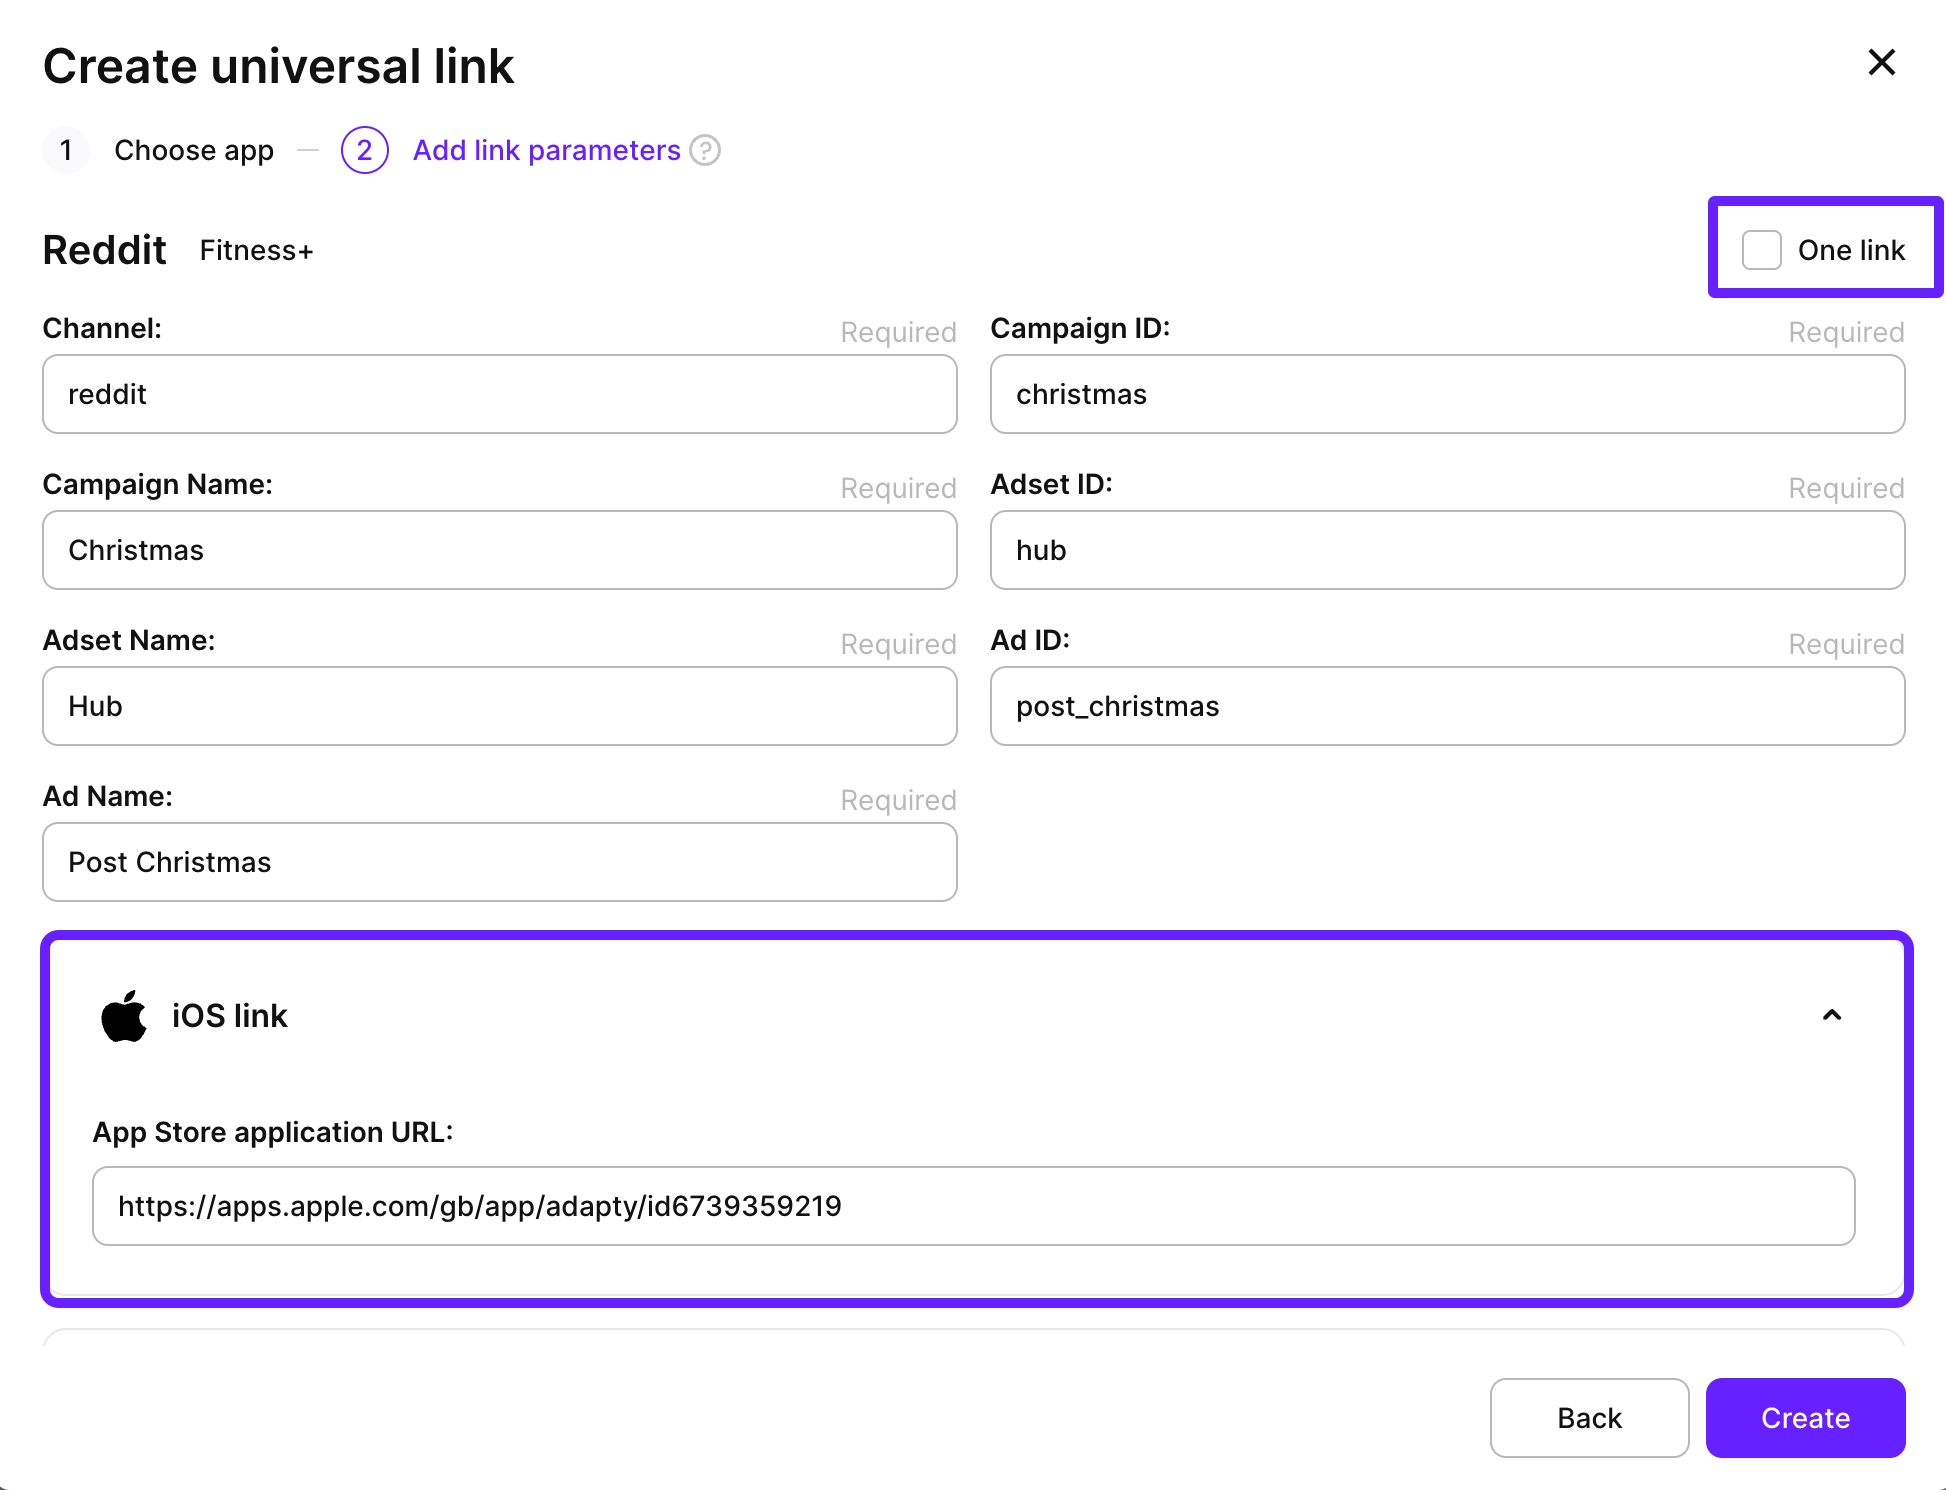
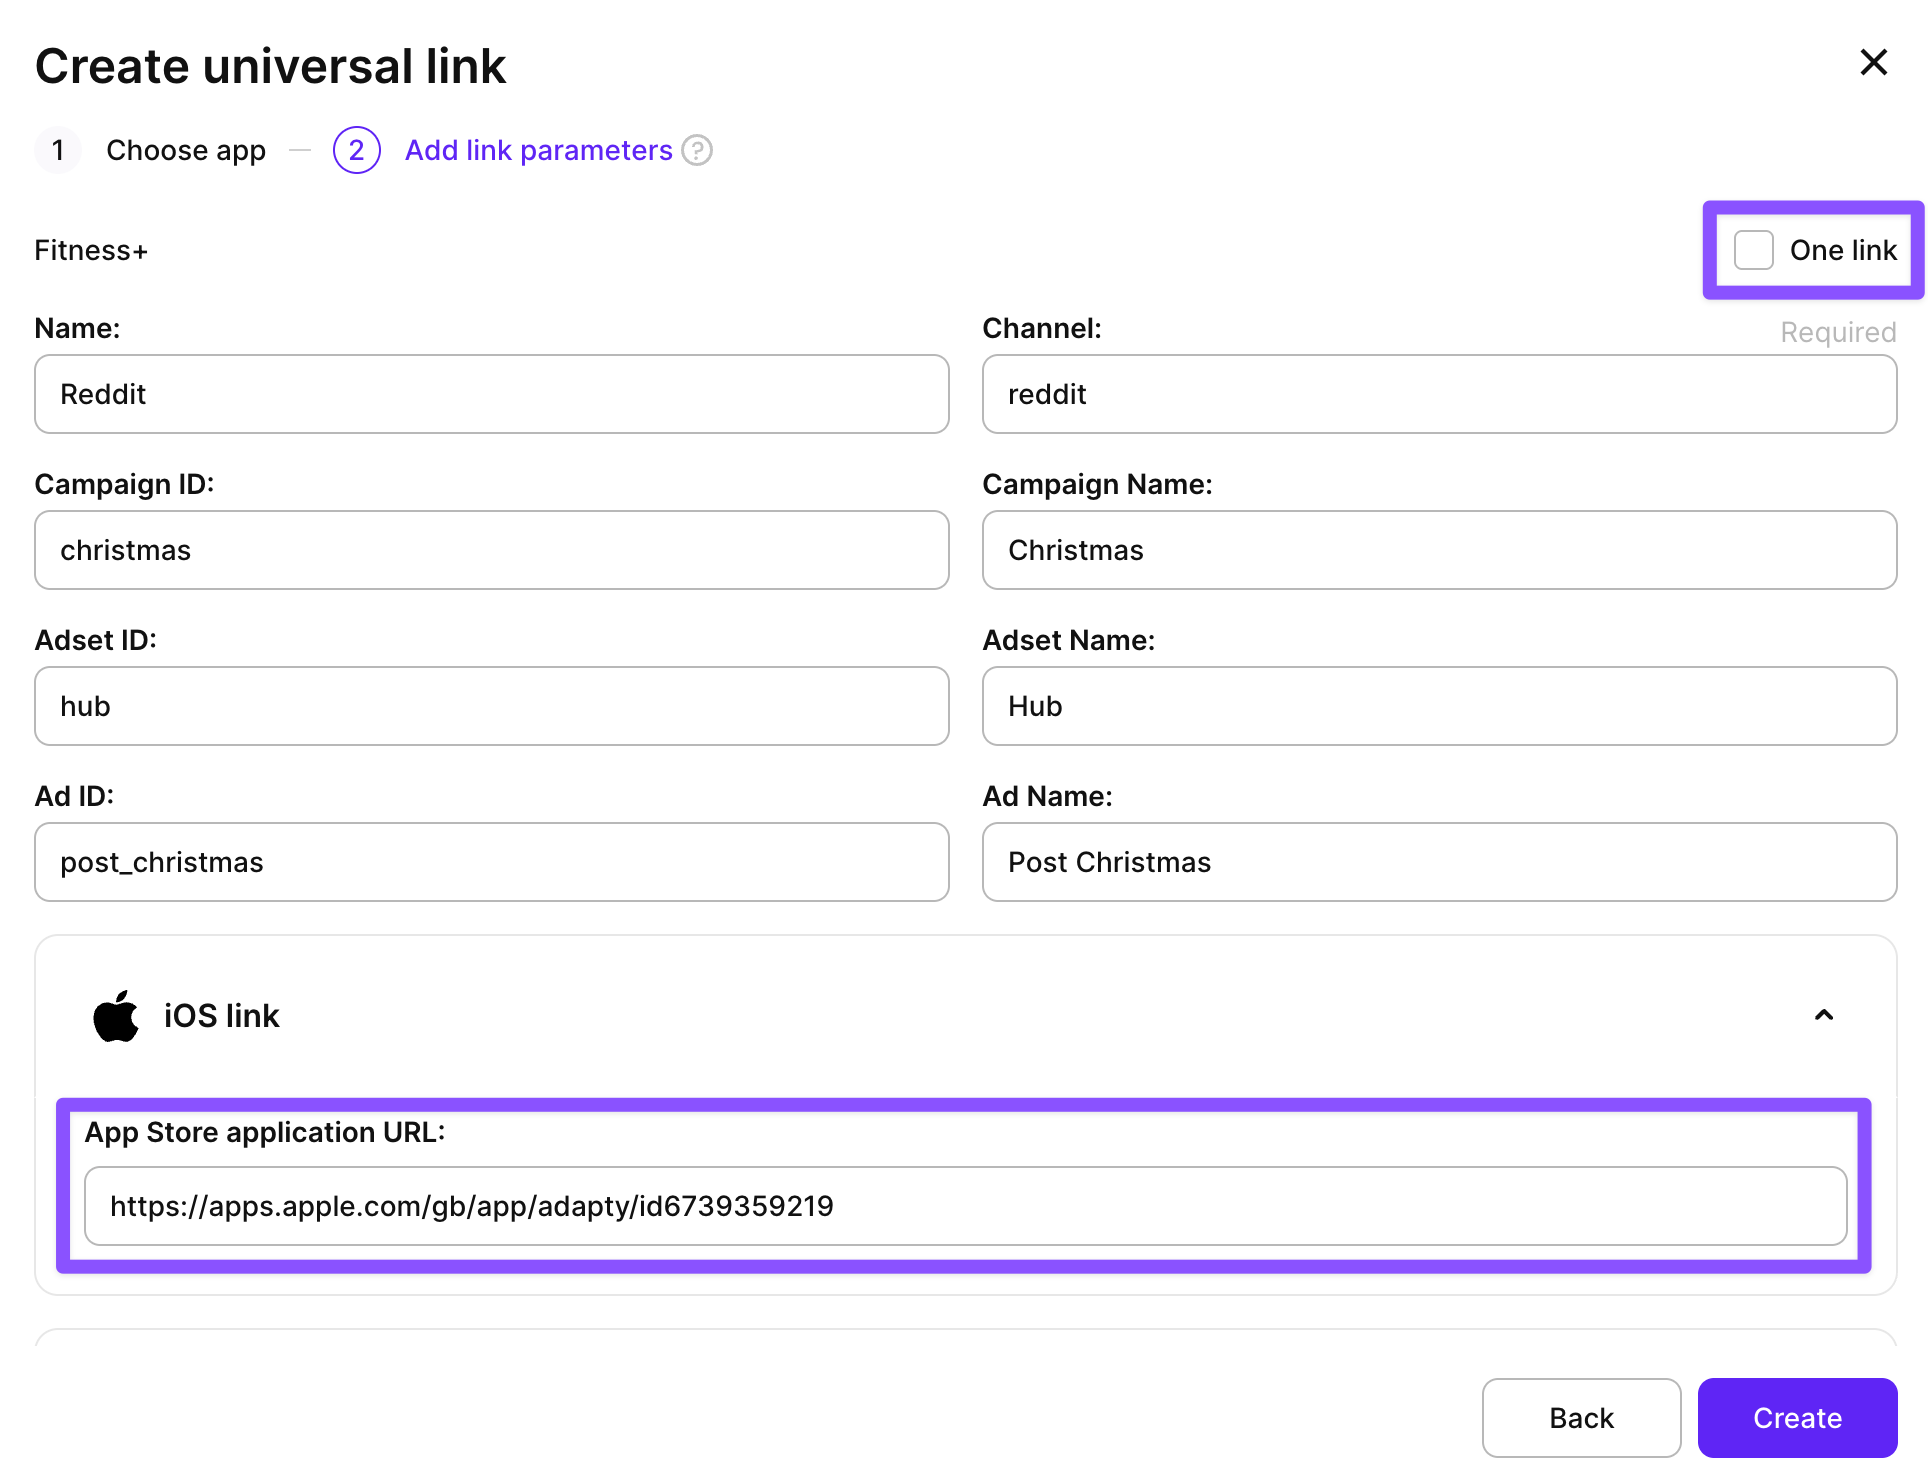
Update the UA tracking link UI

diff --git a/versioned_docs/version-3.0/ua-tracking-links.md b/versioned_docs/version-3.0/ua-tracking-links.md
@@ -25,21 +25,22 @@ To create a tracking link:
 
 <ZoomImage id="new-tracking-link.webp" width="700px" />
 
-2. Select your app from the list and give your tracking link a name.
+2. Select your app from the list and click **Next**.
 
 <ZoomImage id="ua-choose-app.webp" width="700px" />
 
 3. Fill in the link parameters to match it with the campaign and ad you want to track. All the parameters are required.
 
-| Parameter                    | Description                                                                                   |
-| ---------------------------- | --------------------------------------------------------------------------------------------- |
-| **Channel**                  | The source of traffic, such as Meta, Reddit, or TikTok. Used to group campaigns in analytics. |
-| **Campaign ID**              | The unique identifier of the campaign in your ad platform.                                    |
-| **Campaign name**            | The readable name of the campaign.                                                            |
-| **Ad set ID**                | The unique identifier of the ad set (ad group) in your ad platform.                           |
-| **Ad set name**              | The name of the ad set.                                                                       |
-| **Ad ID**                    | The unique identifier of the individual ad creative.                                          |
-| **Ad name**                  | The name of the ad creative or variation.                                                     |
+| Parameter         | Description                                                                                   |
+|-------------------|-----------------------------------------------------------------------------------------------|
+| **Name**          | The internal tracking link name.                                                              |
+| **Channel**       | The source of traffic, such as Meta, Reddit, or TikTok. Used to group campaigns in analytics. |
+| **Campaign ID**   | The unique identifier of the campaign in your ad platform.                                    |
+| **Campaign name** | The readable name of the campaign.                                                            |
+| **Ad set ID**     | The unique identifier of the ad set (ad group) in your ad platform.                           |
+| **Ad set name**   | The name of the ad set.                                                                       |
+| **Ad ID**         | The unique identifier of the individual ad creative.                                          |
+| **Ad name**       | The name of the ad creative or variation.                                                     |
 
 4. By default, you are creating a One Link. It automatically detects the user’s platform and redirects them to the App Store or Google Play after tracking the click.
 
